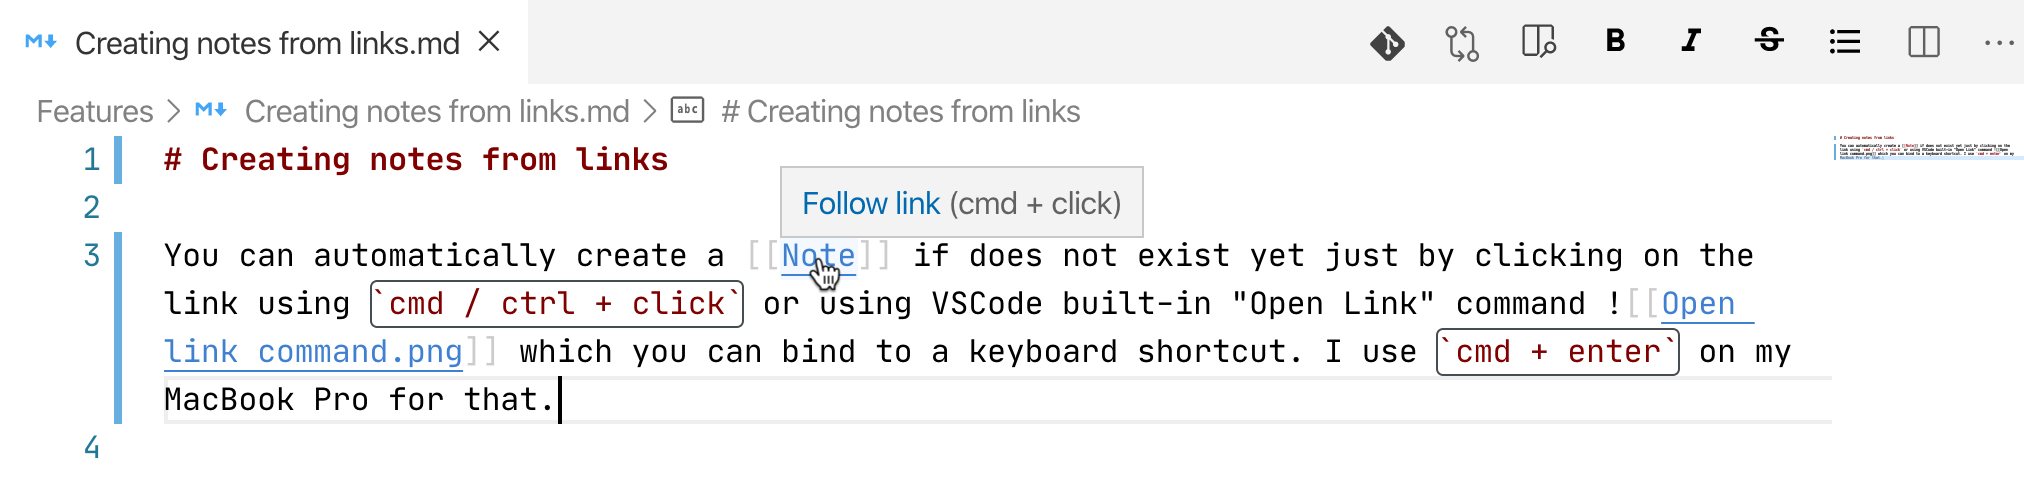
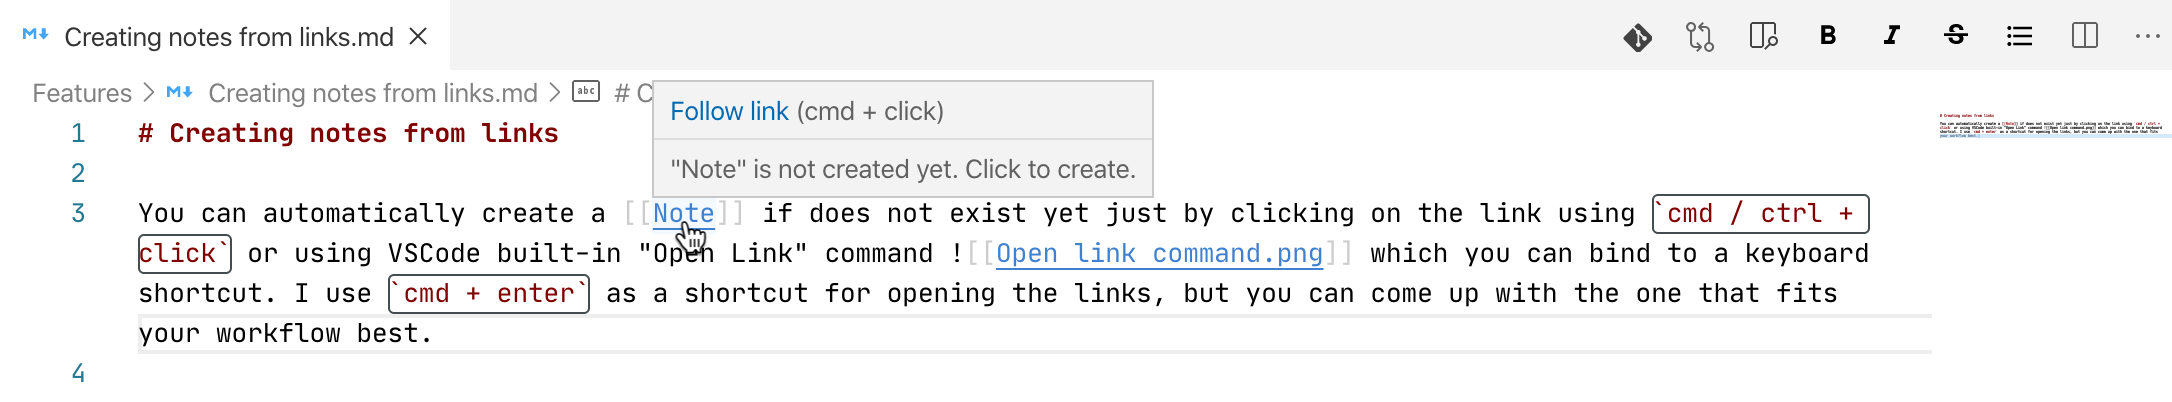
Update README.md

diff --git a/README.md b/README.md
@@ -1,30 +1,59 @@
 # Memo
 
-Markdown knowledge base with bidirectional [[link]]s built on top of [VSCode](https://github.com/microsoft/vscode). Inspired by [Obsidian.md](https://obsidian.md/) and [RoamResearch](https://roamresearch.com/).
+Markdown knowledge base with bidirectional [[link]]s built on top of [VSCode](https://github.com/microsoft/vscode).
+
+Inspired by [Obsidian.md](https://obsidian.md/) and [RoamResearch](https://roamresearch.com/).
 
 ## Why?
 
-Because your personal knowledge base software deserves to be open source.
+Because your knowledge base deserves to be powered by open source.
 
 ## Features
 
-- Creating links 📙
+- 🔗 **Links support**
 
-![Creating links](./help/Attachments/Creating%20links.gif)
+  - Creating links
 
-- Notes and images preview on hover and using built-in VSCode Markdown preview 🖼
+    - ![Creating links](./help/Attachments/Creating%20links.gif)
+
+  - Links navigation
+
+    - ![Links navigation](./help/Attachments/Links%20navigation.gif)
+
+  - Automatic links synchronization
+
+    - ![Automatic links synchronization](./help/Attachments/Automatic%20link%20synchronization.gif)
+
+  - Links labeling
+
+    - ![Links labeling](./help/Attachments/Links%20labeling.png)
+
+  - Support for short and full links on filename clash
+
+    - ![Support short and full links on filename clash](./help/Attachments/Short%20and%20long%20links%20support%202.png)
+
+- 🖼 **Notes and images preview**
 
 ![Notes and images preview](./help/Attachments/Notes%20and%20images%20preview.gif)
 
-- Creating notes from links on the fly 🦋
+- 🦋 **Creating notes on the fly**
 
-![Creating notes from links](./help/Attachments/Creating%20notes%20from%20links.png)
+![Creating notes on the fly](./help/Attachments/Creating%20notes%20from%20links.png)
 
-- Automatic links synchronization on file move / rename
-- Support for absolute and short links support in case of non-unique filename across workspace
-- Support for link with label `[[your link|your label]]`, it will be rendered as link with `your label` in markdown preview
-- Image and note preview on hovering a link in the text editor
-- Opening note or image from link in markdown preview
-- Backlinks panel
-- "Open today note" command
-- "Open random note command" for exploring already existing notes
+- **Backlinks panel**
+
+![Backlinks panel](./help/Attachments/Backlinks%20panel.png)
+
+- 🕹 **Commands**
+
+  - "Open today's note" command which creates a note with a title in this format `yyyy-mm-dd` or opens already existing one
+
+    - ![Open today's note command](./help/Attachments/Open%20today's%20note.gif)
+
+  - "Open random note" command which allows your to explore you knowledge base a little bit
+
+    - ![Open random note command](./help/Attachments/Open%20random%20note.gif)
+
+## Getting started
+
+If you want to try out [Memo](https://marketplace.visualstudio.com/items?itemName=svsool.markdown-memo), just install it from the marketplace and open help folder in VSCode.

diff --git a/help/README.md b/help/README.md
@@ -1,8 +1,10 @@
 # Getting started
 
+This help can be read using any Markdown reader. For instance, GitHub UI, however, don't expect links to work and images to be correctly embedded, and instead, it's recommended to open this help folder using VSCode and Memo.
+
 Memo is a markdown knowledge base with bidirectional links built on top of [VSCode](https://github.com/microsoft/vscode).
 
-One of the main things that Memo enables is creating link in Markdown files. You can create links that refer to the same note, such as this one [[Getting started|Start here]] or refer to any other [[Note]]. Use (cmd or ctrl) + click on the [[Note]] to create a new note to the disk on the fly.
+One of the main things that Memo enables is creating link in Markdown files. You can create links that refer to the same note, such as this one [[README|Start here]] or refer to any other [[Note]]. Use (cmd or ctrl) + click on the [[Note]] to create a new note to the disk on the fly.
 
 Memo supports everything that VSCode Markdown plugin does and many other Markdown plugins from the marketplace. There are [a lot](https://marketplace.visualstudio.com/search?term=tag%3Amarkdown&target=VSCode&category=All%20categories&sortBy=Relevance) of plugins to choose from 🙂. Enjoy discovering those that suits your writing practices most!
 
@@ -12,7 +14,7 @@ I myself do prefer using Memo as a diary and adopted the following structure:
 
 ![[Structure 2.png]]
 
-As you probably noticed, I use `yyyy-mm-dd ` format for naming my daily notes, which makes it easier to refer to certain dates or days throughout my diary. I'm planning to add dates highlight to the editor so that whenever you refer to date via the link for instance [[2020-12-20]] Memo will also provide you with a hint what day and month is it in a human-readable way right next to the link.
+As you probably noticed, I use `yyyy-mm-dd ` format for naming my daily notes, which makes it easier to refer to certain dates or days throughout my diary. I'm planning to add dates highlight to the editor so that whenever you refer to date via the link for instance [[2020-07-05]] Memo will also provide a hint what day and month it is in a human-readable way.
 
 Markdown is a well-known language for its flexibility, especially when it comes to writing and making notes, so you are free to choose your own and unique style of managing a personal knowledge base.
 

diff --git a/help/Features/Short and long links support.md b/help/Features/Short and long links support.md
@@ -1,0 +1,21 @@
+# Short and long (absolute) links support
+
+In case when you have a few notes with the same filename in different directories Memo supports short and long links.
+
+For example, `Examples/Demo (Non-Unique)` folder in the help directory has the following structure:
+
+```
+├── Examples
+│   └── Demo (Non-Unique)
+│       ├── DemoNote.md
+│       └── Notes
+│           └── DemoNote.md
+```
+
+If you want to link `DemoNote.md (#1)` Memo will use a short link like following [[DemoNote]], because this link comes first in the autocomplete results.
+
+![[Short and long links support.png]]
+
+And if you want to link `DemoNote.md (#2)` Memo will use a long (absolute) link like following [[Examples/Demo (Non-Unique)/Notes/DemoNote]].
+
+This simple assumption helps to make links shorter in most cases.

diff --git a/help/Features/Creating links.md b/help/Features/Creating links.md
@@ -2,4 +2,6 @@
 
 You can use links to refer to any note in your personal knowledge base such as for instance a daily note [[2020-07-05]] or an image resource ![[Creating links.gif]].
 
-To create a link to any resource you can use `[[]]` notation and for embedding resource to show it in built-in preview (only images supported at the moment) please use `![[]]` notation with `!` in the beginning.
+To create a link to any resource you can use `[[]]` notation and for embedding resource to show it in the built-in preview (only images supported at the moment) please use `![[]]` notation with `!` in the beginning.
+
+You can assign label to the link using `|` pipe notation, as for instance done for [[2020-07-05|The day when I started writing this help]] note.

diff --git a/help/Features/Creating notes from links.md b/help/Features/Creating notes from links.md
@@ -1,3 +1,3 @@
 # Creating notes from links
 
-You can automatically create a [[Note]] if does not exist yet just by clicking on the link using `cmd / ctrl + click` or using VSCode built-in "Open Link" command ![[Open link command.png]] which you can bind to a keyboard shortcut. I use `cmd + enter` on my MacBook Pro for that.
+You can automatically create a [[Note]] if does not exist yet just by clicking on the link using `cmd / ctrl + click` or using VSCode built-in "Open Link" command ![[Open link command.png]] which you can bind to a keyboard shortcut. I use `cmd + enter` as a shortcut for opening the links, but you can come up with the one that fits your workflow best.

diff --git a/help/Features/Backlinks panel.md b/help/Features/Backlinks panel.md
@@ -1,0 +1,7 @@
+# Backlinks panel
+
+Backlinks panel shows how the current note is referenced in other notes.
+
+![[Backlinks panel.png]]
+
+All links are grouped by the filename and marked with `LINE:OFFSET`, so you can see within which line and at which offset certain link is used. Clicking on the filename will bring you to beginning of the file that references the link and clicking on the link itself will bring your cursor to that link in the file.

diff --git a/help/Features/Automatic link synchronization.md b/help/Features/Automatic link synchronization.md
@@ -1,0 +1,5 @@
+# Automatic link synchronization
+
+Let's reference [[SyncNote]] from the `Examples/Links sync` folder and imagine that you decided to rename `SyncNote` to `HelloWorld`. In this case Memo will synchronize [[SyncNote]] links here in this note and all other files automatically. Try to rename that file yourself or check how synchronization looks like from the picture below.
+
+![[Automatic link synchronization.gif]]

diff --git a/help/Features/Commands.md b/help/Features/Commands.md
@@ -1,0 +1,6 @@
+# Commands
+
+- Open today's note command which creates a note with a title in this format `yyyy-mm-dd` or opens already existing one instead
+  - ![[Open today's note.gif]]
+- Open random note command which allows your to explore you knowledge base a little bit
+  - ![[Open random note.gif]]

diff --git a/help/Features/Features.md b/help/Features/Features.md
@@ -2,3 +2,7 @@
 
 - [[Creating links]]
 - [[Creating notes from links]]
+- [[Short and long links support]]
+- [[Automatic link synchronization]]
+- [[Backlinks panel]]
+- [[Commands]]

diff --git a/help/Daily/2020-07-05.md b/help/Daily/2020-07-05.md
@@ -1,3 +1,7 @@
 # 2020-07-05
 
-- Started working on [[Memo]] help
+One of my daily notes
+
+Events:
+
+- Started working on Memo help

diff --git a/help/Examples/Links sync/SyncNote.md b/help/Examples/Links sync/SyncNote.md
@@ -1,0 +1,1 @@
+Rename this note to see how Memo synchronizes links automatically.

diff --git a/help/Examples/Demo (Non-Unique)/DemoNote.md b/help/Examples/Demo (Non-Unique)/DemoNote.md
@@ -1,0 +1,1 @@
+Demo note without content :).
